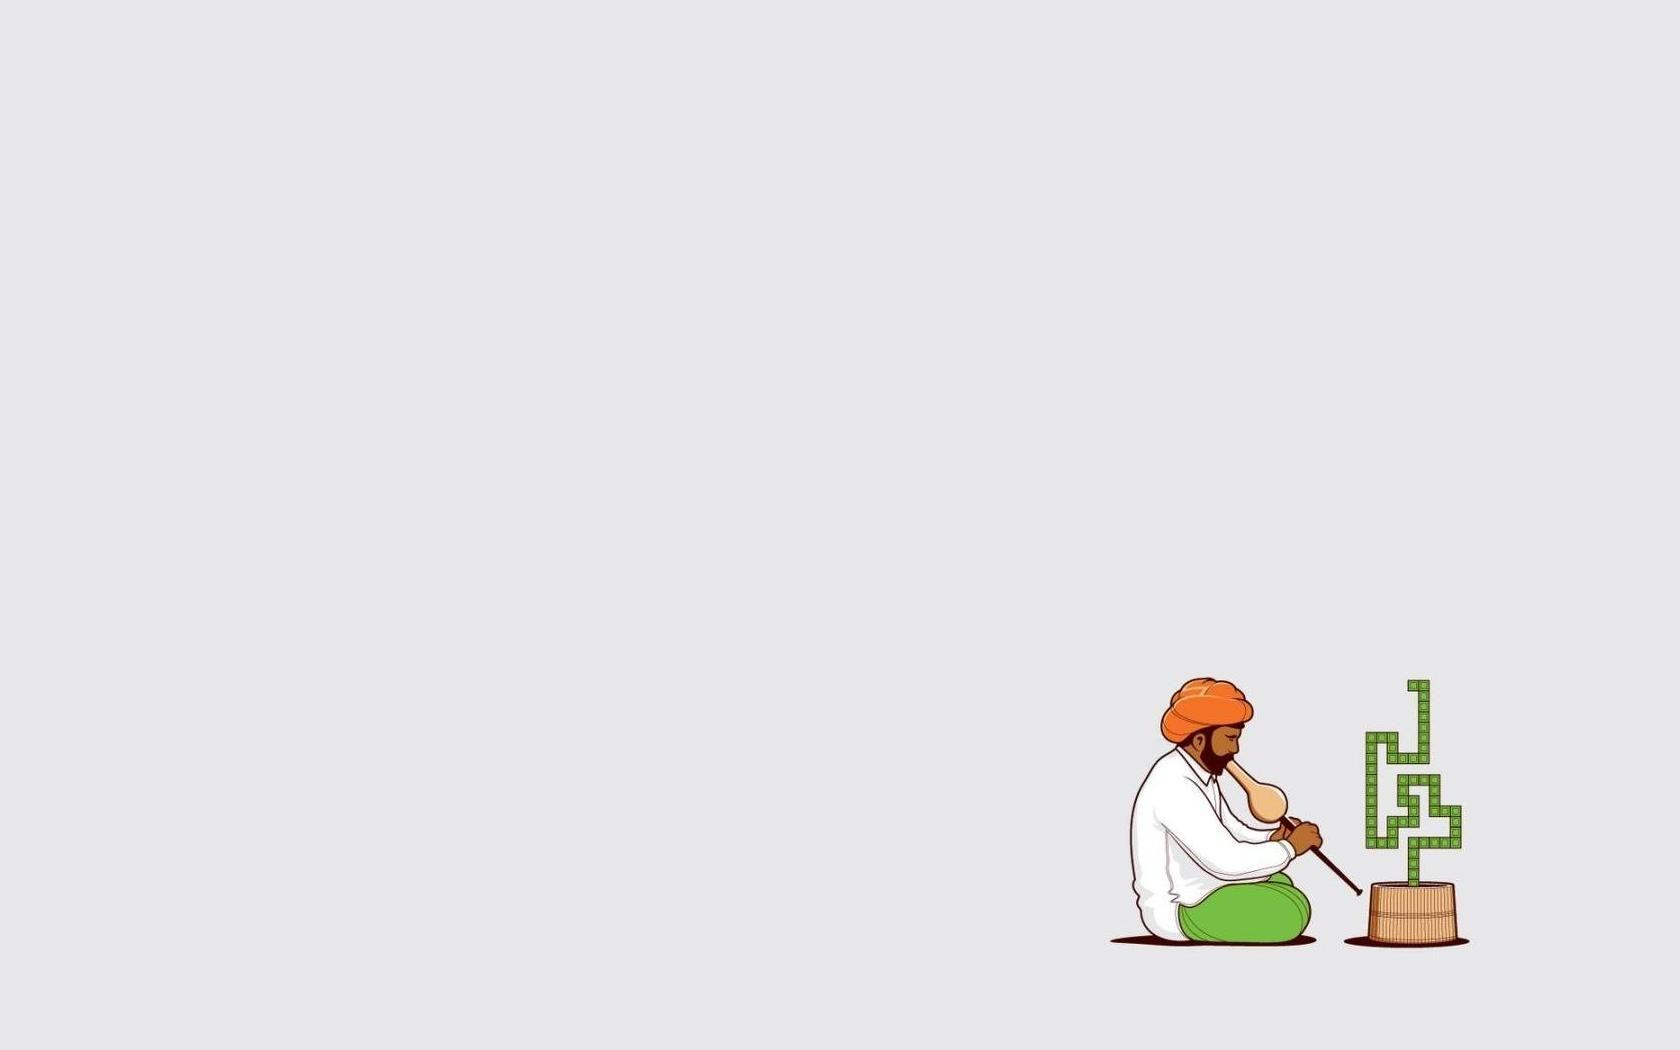
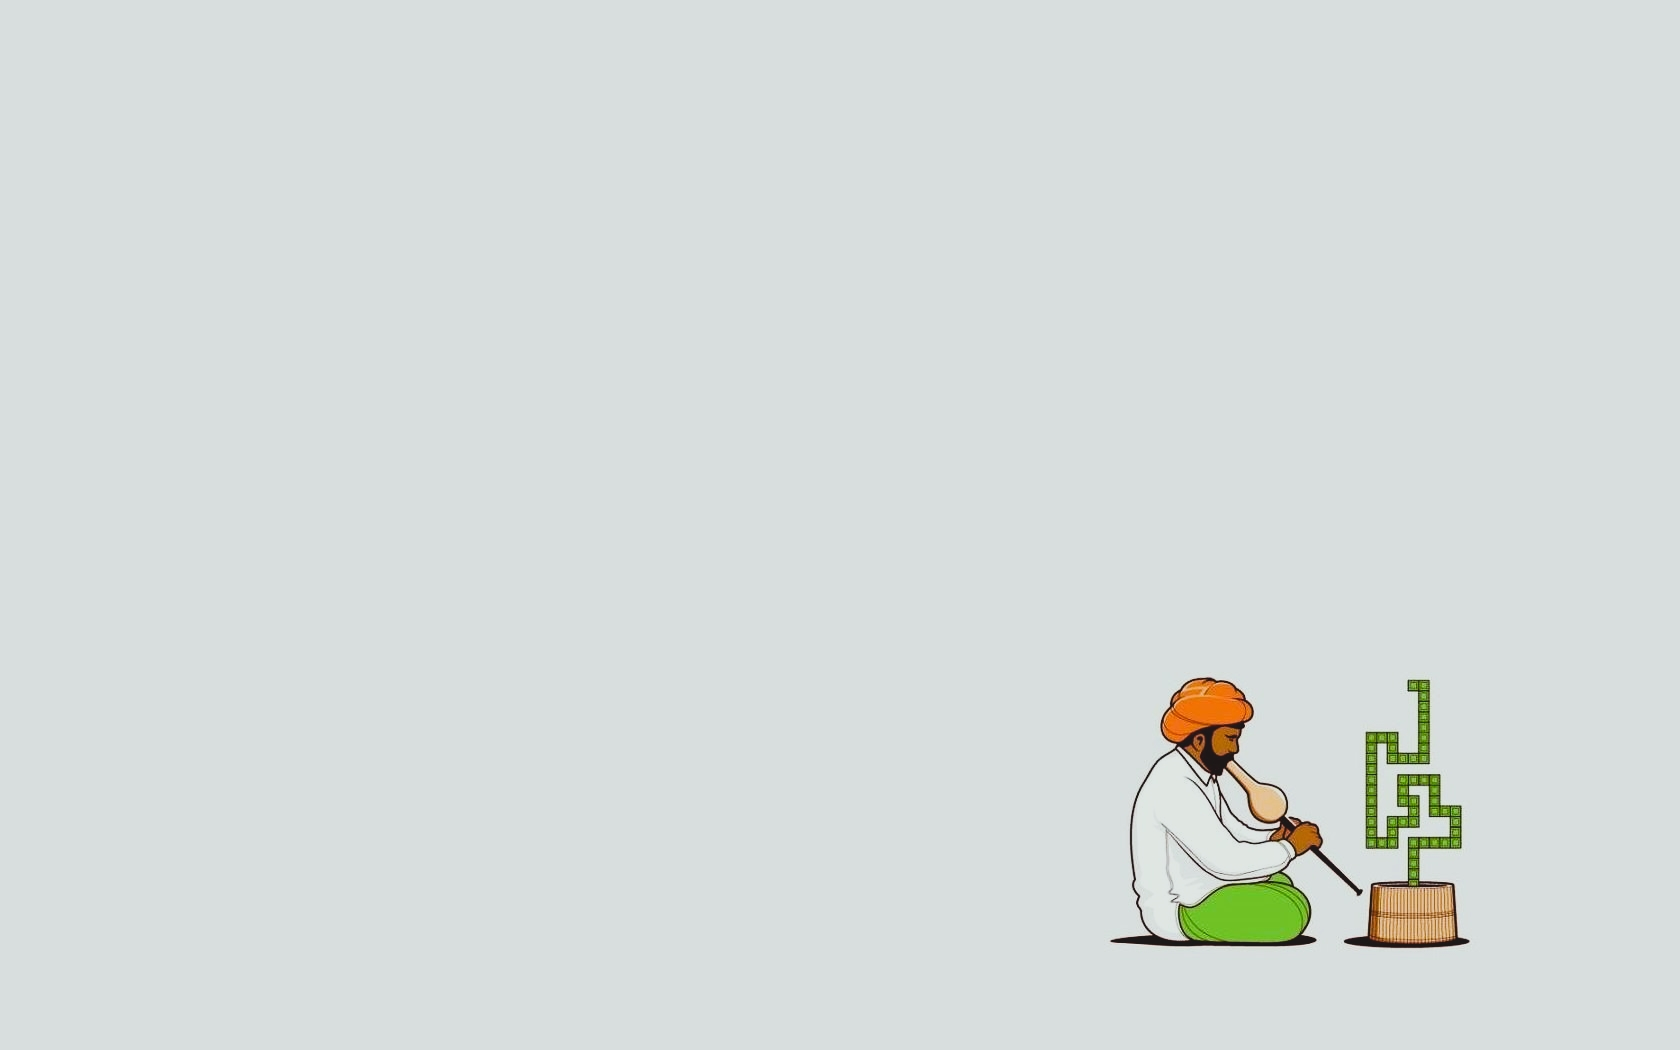
Update
additional implementations to dark mode and restart button.

Changed region(s): [[0.65, 0.64, 0.8667, 0.9143], [0.8048, 0.8533, 0.8667, 0.9143]]

diff --git a/index.html b/index.html
@@ -9,6 +9,7 @@
     <title>Snake Game</title>
 </head>
 <body>
+    <img src="bg.jpg" alt="">
     <div class="wrapper">
         <div class="container">
             <h1 class="title">Snake Game</h1>
@@ -16,8 +17,22 @@
                 <div class="points">
                     <p id="score">0</p>
                 </div>
-            <img src="bg.jpg" alt="">
+                
+            
+            <div class="nightMode">
+                <button onclick="reloadPage()">Restart</button> 
+                <button onclick="loadScript()">Night Mode</button>
+                </div>
         </div>
     </div>
+    <script>
+        function loadScript()  {
+            document.body.style.filter= "brightness(50%)"
+            document.body.style.overflow= "hidden"
+        }
+        function reloadPage() {
+            document.location.reload();
+        }
+    </script>
 </body>
 </html>

diff --git a/style.css b/style.css
@@ -1,13 +1,19 @@
 
+
+
 body {
     margin:0%;
     padding:0%;
+    display:flex;
+    align-items: center;
+    justify-content: center;
 }
 
 .wrapper {
     width: auto;
     height: auto;
 }
+
 
 #snake {
     margin-top: 50px;
@@ -31,7 +37,10 @@ body {
     font-family: monospace;
     font-size: 50px;
     
+    
 }
+
+
 
 #score {
     margin: auto;
@@ -50,9 +59,7 @@ body {
 
 
 img {
-
-    width: 100%;
-    height: 148%;
+    width: auto;
     z-index: -2;
     position: fixed;
 }

diff --git a/script.js b/script.js
@@ -34,6 +34,8 @@ function drawFood() {
 
 
 
+
+
 document.addEventListener('keydown', update);
 
 function update (event) {
@@ -67,8 +69,7 @@ function iniciarJogo(){
 
 for(i = 1; i < snake.length; i++) {
     if(snake[0].x == snake[i].x && snake[0].y == snake[i].y) {
-        clearInterval(jogo)
-        alert('Game Over :/');
+        clearInterval(jogo)        
     }
 }
 
